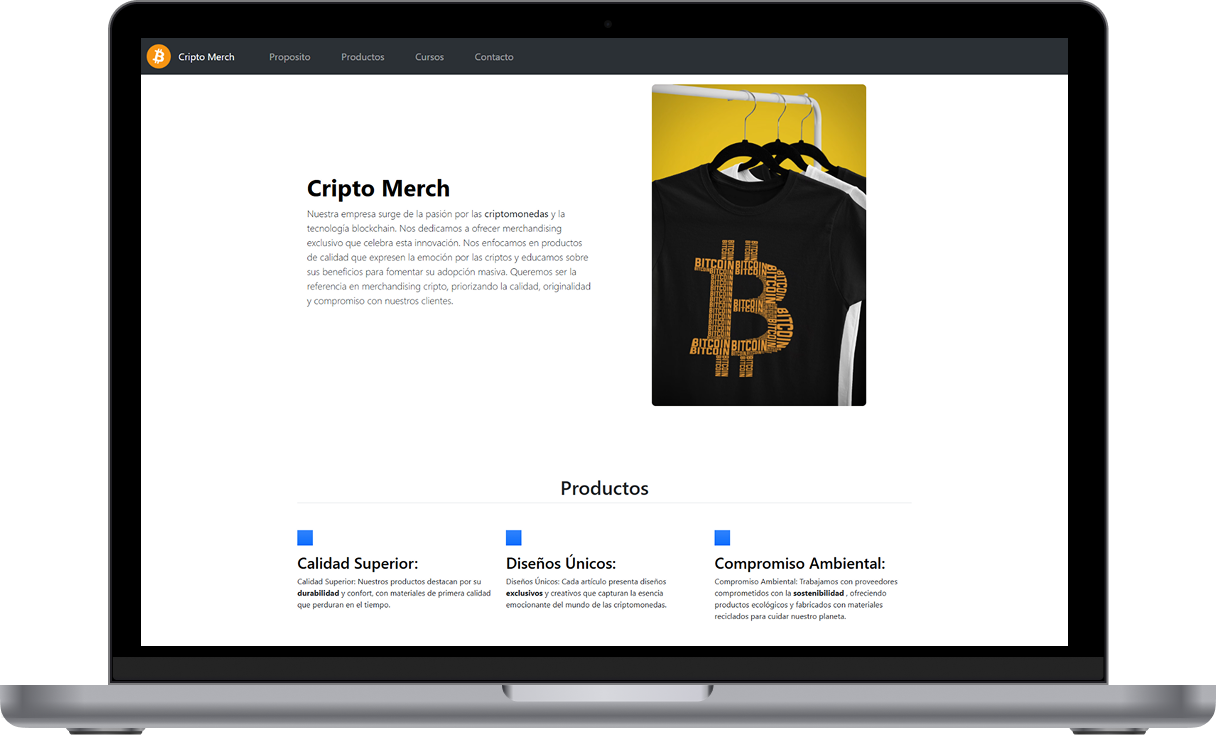
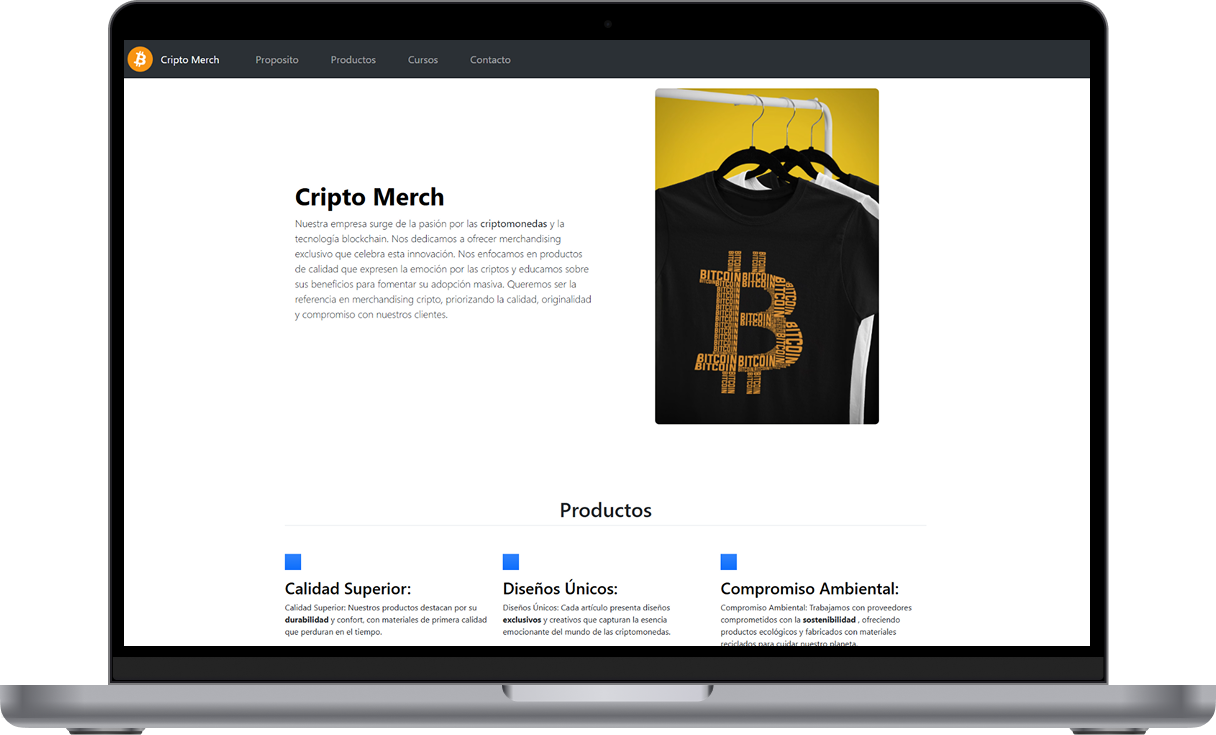
f

diff --git a/src/components/Navbar.tsx b/src/components/Navbar.tsx
@@ -1,7 +1,7 @@
 const Navbar = () => {
   return (
     <nav className="w-full flex justify-center ">
-      <ul className="flex justify-center w-full text-1xl font-medium text-white w-10/12">
+      <ul className="flex justify-center w-full text-1xl font-medium text-white ">
         {['Home', 'Projects', 'About', 'Github', 'Contact'].map((item, idx) => (
           <li key={idx} className="flex-1 text-center">
             <button className="w-full py-3 hover:bg-zinc-500  transition duration-300">
